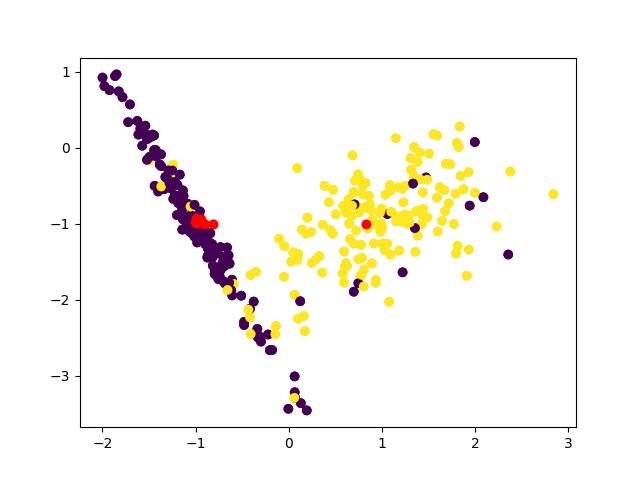
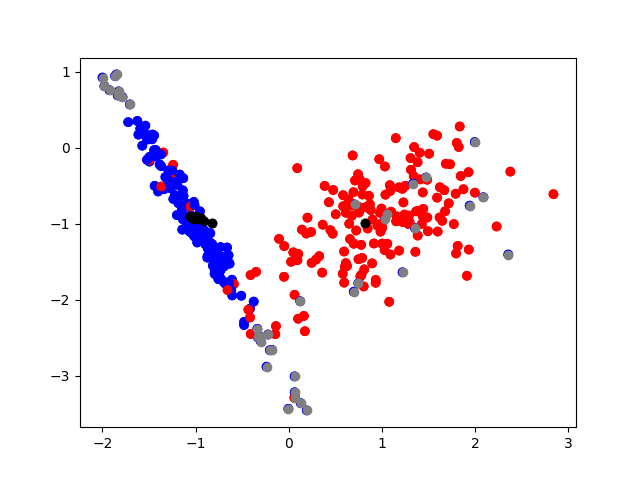
Kod 6.

diff --git a/examples/kod6/onc.py b/examples/kod6/onc.py
@@ -25,38 +25,41 @@ class OptimizedNearestCentroid(BaseEstimator, ClassifierMixin):
         # zapamietujemy X i y
         self.X_, self.y_ = X, y
 
-        # plt.scatter(self.X_[:, 0], self.X_[:, 1], c=y)
-
         # kontener na centroidy klas
         self.centroids_ = []
+        plt.scatter(self.X_[:, 0], self.X_[:, 1], c=y, cmap='bwr')
         # dla kazdej klasy
         for cl in self.classes_:
             # wybieramy tylko instancje nalezace do danej klasy
             X_class = self.X_[self.y_ == cl]
-
             # przynajmniej jeden obied petli
             self.optimize_ = True
             while self.optimize_:
                 # jezeli mamy outliery to je usuwamy, od 2 obiegu petli
                 if hasattr(self, 'outliers_') and self.optimize == True:
+                    plt.scatter(X_class[self.outliers_, 0], X_class[self.outliers_, 1], c='gray')
+
                     X_class = np.delete(X_class, self.outliers_, axis=0)
+
                 # wyliczamy centroid klasy
-                class_centroid = np.sum(X_class, axis=0) / X_class.shape[0]
+                class_centroid = np.mean(X_class, axis=0)
                 # liczymy dystanse wszystkich obiektow klasy od centroidu
                 distances = np.squeeze(self.dm.pairwise(
                     class_centroid.reshape(1, X_class.shape[1]), X_class))
                 # liczymy odchylenie standardowe instancji klasy
                 std = np.std(X_class)
 
-                # plt.scatter(class_centroid[0], class_centroid[1], c='red')
-                # plt.savefig("cos")
+                plt.scatter(class_centroid[0], class_centroid[1], c='black')
 
                 # uznajemy za outliery te instancje, ktore znajduja sie od
                 # centroidu dalej niz 3 * std
-                self.outliers_ = np.argwhere(distances > self.sigma * std)
+                self.outliers_ = np.squeeze(np.argwhere(distances > self.sigma * std))
+
+                plt.savefig("cos")
+
                 # konczymy optymalizacje, jezeli nie mamy autlierow
                 # lub nie chcielismy w ogole z niej korzystac
-                if self.outliers_.shape[0] == 0 or self.optimize == False:
+                if self.outliers_.size == 0 or self.optimize == False:
                     self.optimize_ = False
             # dodajemy wyliczony centroid do listy
             self.centroids_.append(class_centroid)

diff --git a/examples/kod6/test.py b/examples/kod6/test.py
@@ -23,7 +23,7 @@ X, y = make_classification(
 
 X_train, X_test, y_train, y_test = train_test_split(
     X, y,
-    test_size=.2,
+    test_size=.15,
     random_state=42
 )
 
